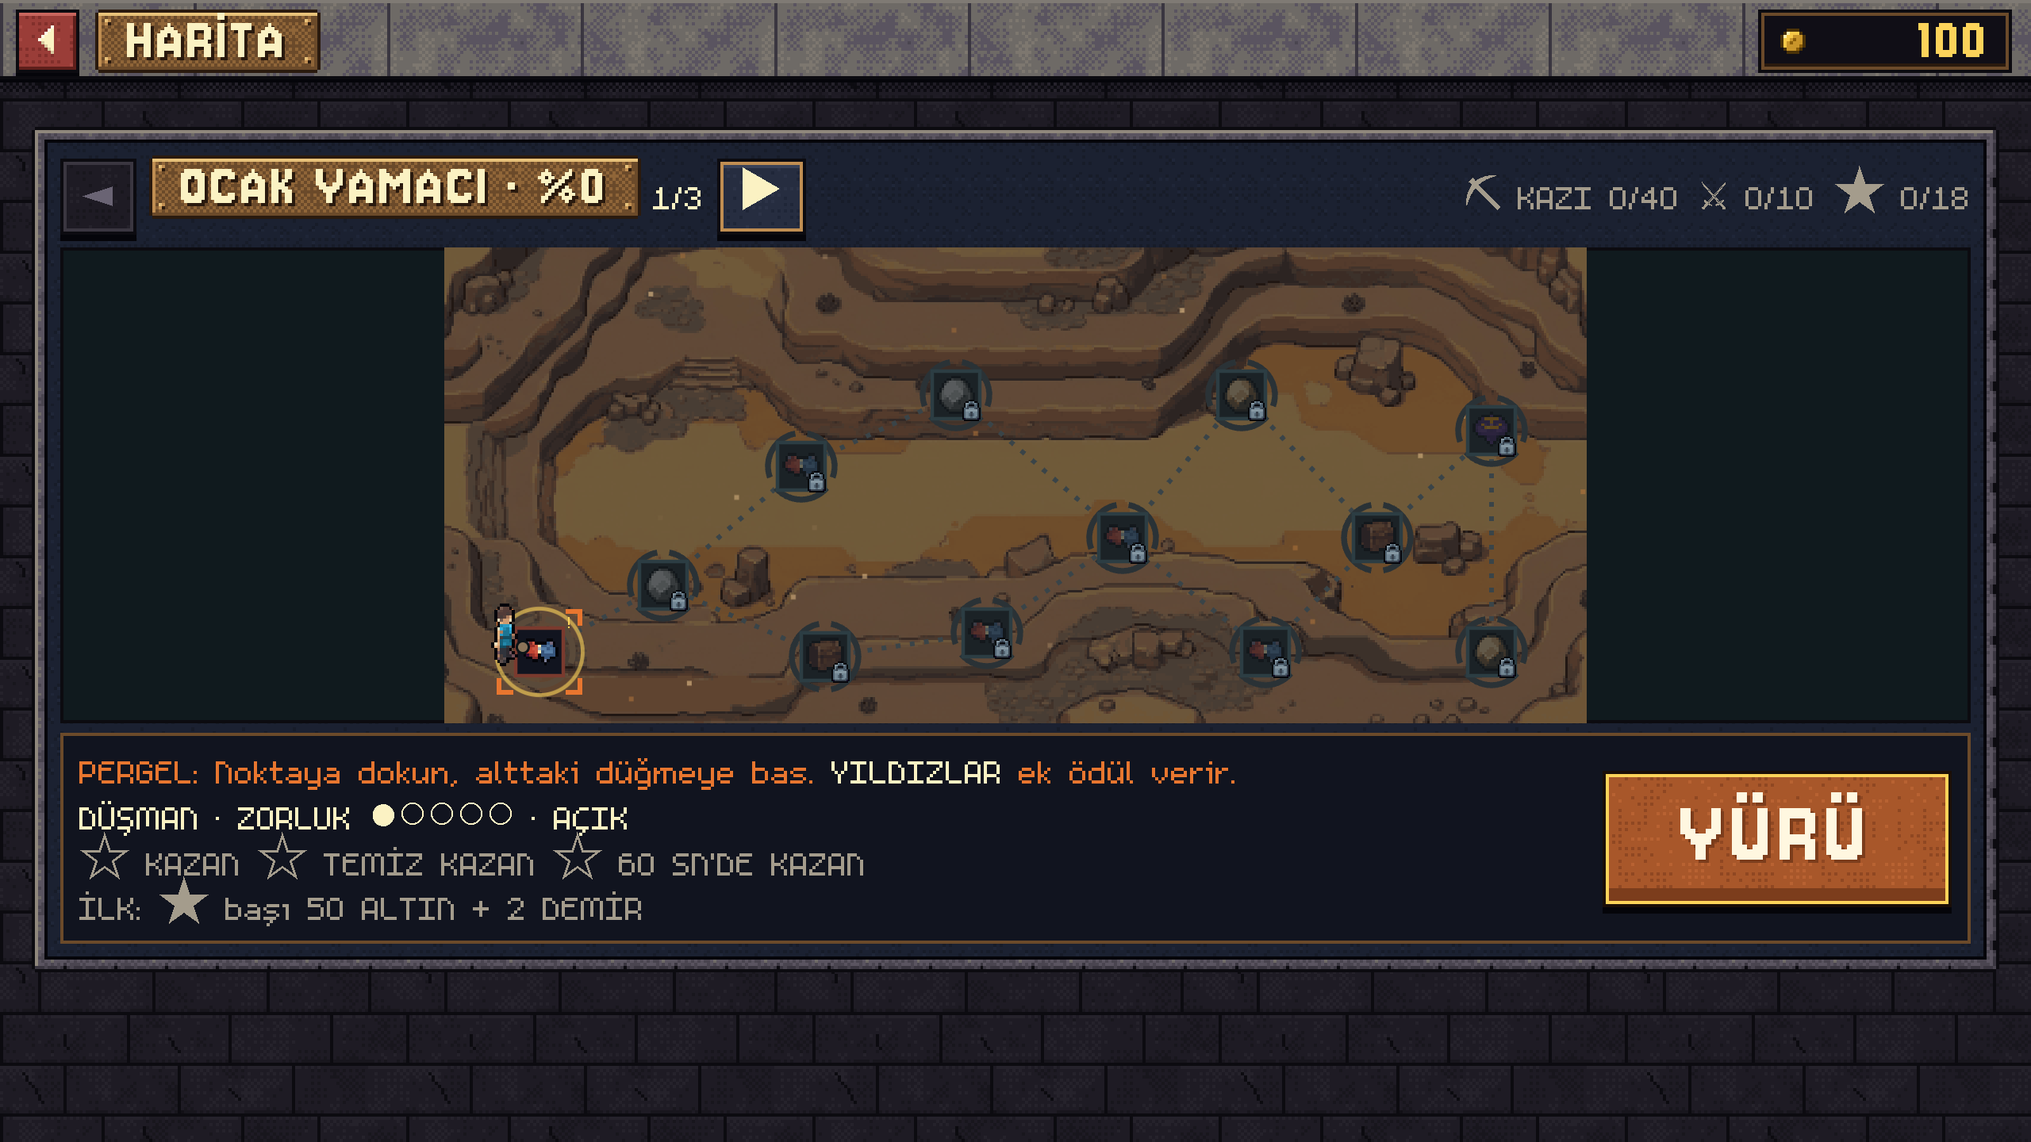
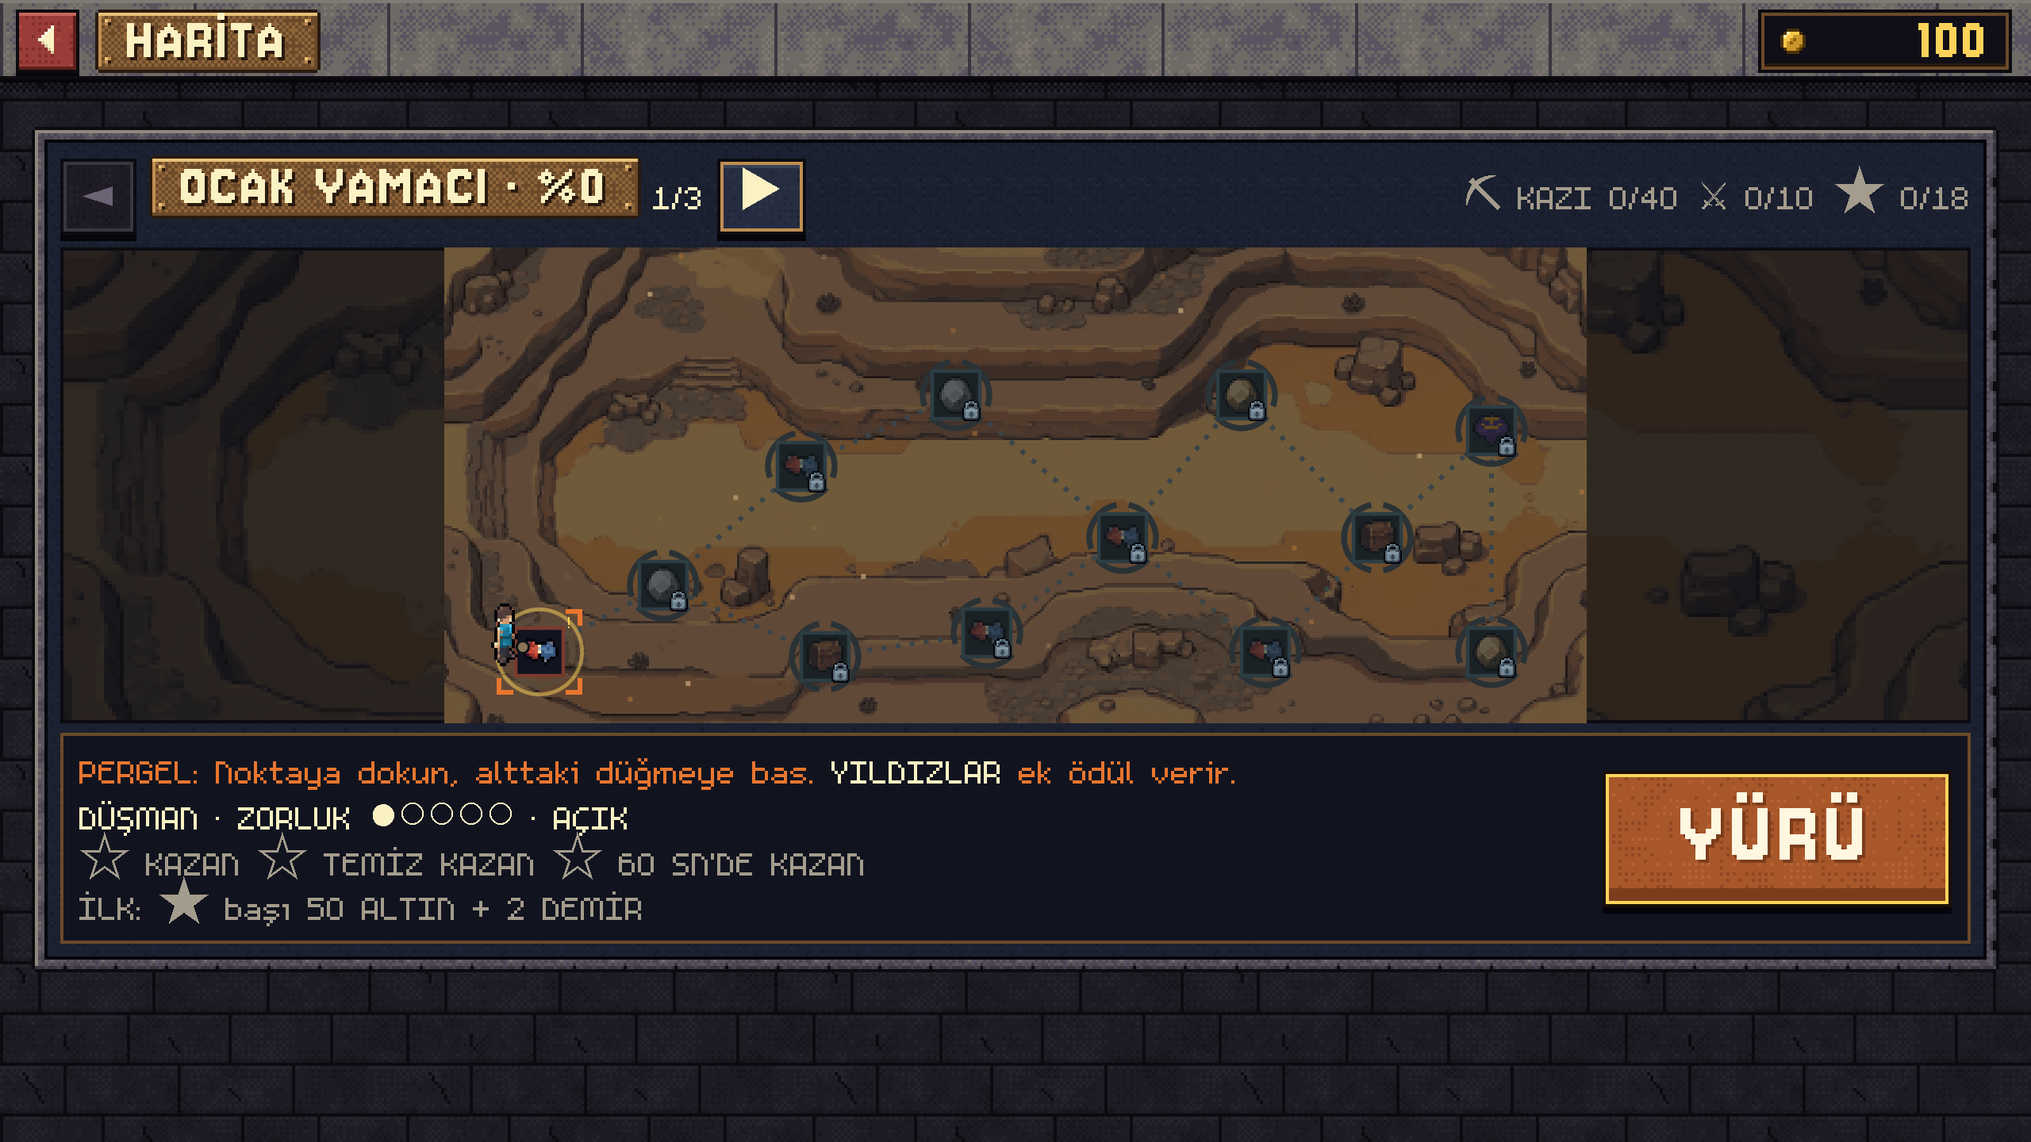
art(harita): M1 vein rock per ore tier, 3x mine character, crater frame ramp
- Gemini grey boulder with key-green veins; stone mapped to the mine-mouth
  blue-grey ramp, veins to each tier's ramp (iridescent for Devir). The mine
  screen shows it instead of the octagon placeholder and small ore icon.
- Mine mini character drawn at 3x.
- cerceve-krater gets a basalt + ember ramp so it differs from usta-ocakci.
- Effect frame captured mid-animation; screens and report refreshed.

Changed region(s): [[0.7812, 0.2188, 0.9688, 0.6562], [0.0312, 0.2188, 0.2188, 0.6562]]

diff --git a/src/istemci/ekranlar/Maden.ts b/src/istemci/ekranlar/Maden.ts
@@ -5,7 +5,7 @@ import { ipucuBas, ipucuSec } from "../bilgic/haritaIpucu.ts";
 import type { EkranBaglami } from "../main.ts";
 import { apiGet, apiPost, git, oku, sakla } from "../hesap.ts";
 import { ekranKok, el } from "./arayuz.ts";
-import { CEVHER_IKON, KARAKTER_KARE, OCAK_AGZI, karakterSayfasi, kareKonumu } from "./haritaVarlik.ts";
+import { DAMAR_KAYA, KARAKTER_KARE, OCAK_AGZI, karakterSayfasi, kareKonumu } from "./haritaVarlik.ts";
 import { efektStili, halkaDalga, kirintiPatlat, merkez, parilti, sarsinti } from "./haritaEfekt.ts";
 import { Ses } from "../ses/Ses.ts";
 
@@ -51,7 +51,7 @@ const STIL = `
 .mdn .md-satir.nadir { color:#fcd35a; }
 .mdn .md-seans span { display:block; }
 .mdn .md-mini { position:absolute; left:calc(4 * var(--p)); bottom:calc(4 * var(--p)); }
-.mdn .md-sprite { width:32px; height:48px; background-size:288px 144px; image-rendering:pixelated; }
+.mdn .md-sprite { width:48px; height:72px; background-size:432px 216px; image-rendering:pixelated; filter:drop-shadow(0 2px 0 rgba(0,0,0,.5)); }
 html[data-telefon] .mdn .md-govde { grid-template-columns:calc(118 * var(--p)) 1fr calc(100 * var(--p)); min-height:0; }
 html[data-telefon] .mdn .md-orta svg { width:calc(110 * var(--p)); height:calc(110 * var(--p)); }
 @media (prefers-reduced-motion: reduce) { .mdn .md-ucus { animation:none; opacity:1; } }
@@ -193,18 +193,16 @@ class MadenEkrani {
     };
     const tam = Math.PI * 2;
     // damar kayası (kademe renginde) + nadir çatlak
-    // damar ışıması (kademe rengi, nabız) + düzensiz kaya (sekizgen)
+    // damar ışıması (kademe rengi, nabız)
     const isik = document.createElementNS("http://www.w3.org/2000/svg", "circle");
     for (const [a, v] of Object.entries({ r: 30, fill: kademe(s.kademe).renk.ana, opacity: 0.35, class: "ef-isima" })) isik.setAttribute(a, String(v));
     svg.appendChild(isik);
-    const kaya = document.createElementNS("http://www.w3.org/2000/svg", "polygon");
-    for (const [a, v] of Object.entries({ points: "-14,-25 12,-24 25,-11 24,13 13,25 -12,24 -25,12 -24,-13", fill: kademe(s.kademe).renk.koyu, stroke: kademe(s.kademe).renk.ana, "stroke-width": 3, "stroke-linejoin": "bevel" })) kaya.setAttribute(a, String(v));
+    // damar kayası (Gemini kalıbı, damar kademe renginde; 10 § 3.3 M1), kademe numarası rozetle
+    const kaya = document.createElementNS("http://www.w3.org/2000/svg", "image");
+    for (const [a, v] of Object.entries({ href: DAMAR_KAYA(s.kademe), x: -34, y: -34, width: 68, height: 68, style: "image-rendering:pixelated" })) kaya.setAttribute(a, String(v));
+    kaya.dataset["damar"] = String(s.kademe);
     svg.appendChild(kaya);
     this.damarSvg = svg;
-    // damar: kodla çizilmiş cevher ikonu (A3), kademe numarası rozetle
-    const cv = document.createElementNS("http://www.w3.org/2000/svg", "image");
-    for (const [a, v] of Object.entries({ href: CEVHER_IKON(s.kademe), x: -16, y: -16, width: 32, height: 32, style: "image-rendering:pixelated" })) cv.setAttribute(a, String(v));
-    svg.appendChild(cv);
     const rz = document.createElementNS("http://www.w3.org/2000/svg", "text");
     rz.setAttribute("text-anchor", "middle"); rz.setAttribute("x", "16"); rz.setAttribute("y", "-12"); rz.setAttribute("font-size", "11"); rz.setAttribute("fill", "#fff");
     rz.textContent = String(s.kademe);
@@ -314,10 +312,10 @@ class MadenEkrani {
   }
 
   private spriteEl: HTMLElement | null = null;
-  /** Mini karakter karesi (sayfa 9×3, hücre 16×24; ×2 gösterim). */
+  /** Mini karakter karesi (sayfa 9×3, hücre 16×24; ×3 gösterim). */
   private spriteKare(k: number): void {
     const [x, y] = kareKonumu(k);
-    if (this.spriteEl) this.spriteEl.style.backgroundPosition = `${-x * 2}px ${-y * 2}px`;
+    if (this.spriteEl) this.spriteEl.style.backgroundPosition = `${-x * 3}px ${-y * 3}px`;
   }
   /** KAZ animasyonu (6 kare, ~0,5 sn), sonra BEKLE. */
   private kazAnim(): void {

diff --git a/src/istemci/ekranlar/haritaVarlik.ts b/src/istemci/ekranlar/haritaVarlik.ts
@@ -1,7 +1,7 @@
 import { MADENLER } from "../../paylasilan/veri/harita.ts";
 
-// Harita / Maden / Ocak 2B varlık yolları (public/harita/**, `npm run harita:asset`; veri/manifest-gorsel.json `harita`).
-// Kodla çizilmiş pixel art; sanat hattı (Mac) daha iyisini aynı yollara koyabilir. Görüntüler `image-rendering: pixelated`.
+// Harita / Maden / Ocak 2B varlık yolları (public/harita/**, araclar/sanat/harita_*.py; veri/manifest-gorsel.json `harita`).
+// Sanat hattı (Mac: Gemini + Tripo + Blender, docs/production/raporlar/HARITA-SANAT.md). Görüntüler `image-rendering: pixelated`.
 
 const taban = (): string => (import.meta.env?.BASE_URL ?? "/") + "harita/";
 export const DUGUM_IKON = (tur: string, bos = false): string => `${taban()}dugum/${tur === "sandik" && bos ? "sandik-bos" : tur}.png`;
@@ -9,6 +9,8 @@ export const KILIT_IKON = (): string => `${taban()}dugum/kilit.png`;
 const kid = (k: number) => MADENLER.find((x) => x.kademe === k)?.id ?? "demir";
 export const CEVHER_IKON = (k: number): string => `${taban()}maden/cevher-${kid(k)}.png`;
 export const KULCE_IKON = (k: number): string => `${taban()}maden/kulce-${kid(k)}.png`;
+/** Maden ekranının damar kayası (96×96, kademe renkli damar; 10 § 3.3 M1). */
+export const DAMAR_KAYA = (k: number): string => `${taban()}maden/damar-${kid(k)}.png`;
 export const USTALIK_IKON = (tur: "madencilik" | "isleme"): string => `${taban()}ustalik/${tur}.png`;
 export const GORUNUM_IKON = (id: string): string => `${taban()}${id.startsWith("cerceve-") ? "cerceve" : "arma"}/${id}.png`;
 export const USTA_PARILTI = (): string => `${taban()}efekt/usta-isi.png`;

diff --git a/araclar/sanat/harita_piksel.py b/araclar/sanat/harita_piksel.py
@@ -247,13 +247,49 @@ def kaliplar() -> None:
             f"Çerçeve: {kid} (perçinli, 9-dilim kenar 6)", kaynak)
     for b, e in BOLGE.items():
         yaz(takas(duz, rampa(*KADEME[e])), f"cerceve/cerceve-{b}", f"Çerçeve: {b} (GÜMÜŞ rozet, oluklu)", kaynak)
-    yaz(takas(krater, rampa(*KADEME["kor"])), "cerceve/cerceve-krater", "Çerçeve: krater", kaynak)
+    yaz(takas(krater, rampa("#1c1412", "#4a3a36", "#ff8a5c")), "cerceve/cerceve-krater", "Çerçeve: krater (bazalt + kor ışığı)", kaynak)
     yaz(kose_yildiz(takas(duz, rampa(*ALTIN)), "#FFFBE0"), "cerceve/cerceve-yildiz", "Çerçeve: yıldız (altın)", kaynak)
     yaz(takas(perci, rampa(*KOLEKSIYON), DEVIR_YANAR), "cerceve/cerceve-koleksiyon", "Çerçeve: koleksiyon", kaynak)
     yaz(kose_yildiz(takas(duz, rampa(*KADEME["demir"])), "#FCD35A"), "cerceve/cerceve-usta-madenci",
         "Çerçeve: usta madenci", kaynak)
     yaz(kose_yildiz(takas(krater, rampa(*KADEME["kor"])), "#FCD35A"), "cerceve/cerceve-usta-ocakci",
         "Çerçeve: usta ocakçı", kaynak)
+
+
+TAS = ["#1c2029", "#2a2f3a", "#3d4452", "#565e6e", "#737c8c", "#98a1b0"]  # ocak ağzıyla uyumlu mavi-gri taş
+
+
+def damarlar() -> None:
+    """M1 damar kayası 96×96: gri taş -> mavi-gri taş rampası, anahtar yeşili damar -> kademe rampası (10 § 3.3)."""
+    kaynak = "Gemini gri kaya + anahtar yeşili damar -> harita_piksel.py (taş ve damar ayrı rampa)"
+    k = ikon("kalip-damar", 96, renk=24, dolgu=0.96)
+    rgb = k[..., :3].astype(np.float32)
+    mx, mn = rgb.max(-1), rgb.min(-1)
+    yesil = (k[..., 3] > 0) & (rgb[..., 1] > rgb[..., 0] + 40) & (rgb[..., 1] > rgb[..., 2] + 40)
+    kontur = np.all(k[..., :3] == KONTUR, axis=-1)
+    tas = (k[..., 3] > 0) & ~yesil & ~kontur & (mx - mn < 30)
+    lum = rgb.mean(-1)
+
+    def esle(maske: np.ndarray, rampa: list[np.ndarray], out: np.ndarray, yanar: list[str] | None = None) -> None:
+        if not maske.any():
+            return
+        lo, hi = np.percentile(lum[maske], 3), np.percentile(lum[maske], 97)
+        t = np.clip((lum - lo) / max(hi - lo, 1), 0, 0.999)
+        d = (t * len(rampa)).astype(int)
+        for i, c in enumerate(rampa):
+            out[maske & (d == i), :3] = c.astype(np.uint8)
+        if yanar:
+            ys, xs = np.nonzero(maske & (d == len(rampa) - 1))
+            for y, x in zip(ys, xs):
+                out[y, x, :3] = hx(yanar[(x + y) % len(yanar)]).astype(np.uint8)
+
+    taban = k.copy()
+    esle(tas, [hx(c) for c in TAS], taban)
+    for i, (kid, r) in enumerate(KADEME.items(), 1):
+        out = taban.copy()
+        ko, an, vu = (hx(c) for c in r)
+        esle(yesil, [an, (an + vu) / 2, vu, vu + (255 - vu) * 0.6], out, DEVIR_YANAR if kid == "devir" else None)
+        yaz(out, f"maden/damar-{kid}", f"Damar kayası K{i} {kid} (96×96; taş + kademe renkli damar)", kaynak)
 
 
 def zeminler() -> None:
@@ -285,6 +321,8 @@ if __name__ == "__main__":
         ikonlar()
     if s & {"kalip", "hepsi"}:
         kaliplar()
+    if s & {"damar", "hepsi"}:
+        damarlar()
     if s & {"zemin", "hepsi"}:
         zeminler()
     os.makedirs(os.path.join(DEPO, "art-source", "harita"), exist_ok=True)

diff --git a/araclar/sanat/harita_gemini.py b/araclar/sanat/harita_gemini.py
@@ -142,7 +142,15 @@ HP_B = {
                         "light grey face." + GRI,
 }
 
-GRUPLAR = {"hp1": HP1, "hp2": HP2, "hpk": HPK, "hp3": HP3, "hpb": HP_B}
+# M1 damar kayası (10 § 3.3): gri kaya + anahtar yeşili damar → damar pikselleri kademe rampasına (harita_piksel.py damar)
+DAMAR = (IKON.replace("16 by 16 pixel grid", "48 by 48 pixel grid").replace("still reads at 16 pixels", "reads at 96 pixels")
+         + "a single big rough rock boulder seen from the front, chunky faceted stone, a few cracks, with three or four thick "
+         "ore veins running diagonally across its face. The stone is ONLY neutral grey (light grey top-left, dark grey "
+         "lower-right). The veins are flat pure bright green (#00FF00) with a few lighter green highlight pixels, clearly "
+         "separated from the grey stone.")
+HP_M = {"kalip-damar": DAMAR}
+
+GRUPLAR = {"hp1": HP1, "hp2": HP2, "hpk": HPK, "hp3": HP3, "hpb": HP_B, "hpm": HP_M}
 ORAN = {"zemin": "21:9", "ocak-agzi": "16:9"}
 
 

diff --git a/docs/production/raporlar/HARITA-SANAT.md b/docs/production/raporlar/HARITA-SANAT.md
@@ -11,9 +11,10 @@ Sözleşme korundu: bütün yollar, adlar ve boyutlar aynı (`haritaVarlik.ts` d
 | HP-1 | `dugum/{dusman,patron,maden,sandik,sandik-bos,kilit}.png` 13×13, `ustalik/{madencilik,isleme}.png` 13×13, `efekt/usta-isi.png` 128×16 | 9 | Gemini ham ikon → `anahtarla.py` → `harita_piksel.py` (ham görselin kendi paletinden medyan kesim, BOX küçültme, 1 bit alfa, dış kontur). Usta işi: tek Gemini parıltısından 8 ölçek karesi |
 | HP-2 | `maden/cevher-*`, `maden/kulce-*` 16×16 (8+8), `arma/*` 24×24 (16), `cerceve/*` 24×24 (19) | 51 | 13 gri kalıp (cevher, külçe, 2 arma, 6 bölge arması, 3 çerçeve) → parlaklığa göre 6 düzey → kademe/bölge rampası (10 § 2). Devir Taşı: en parlak düzey 6 element vurgusuyla yanardöner. Çerçeveler 9-dilim sözleşmesine zorlanır (kenar 6, iç 12×12 boş, dış ve iç kenar kontur) |
 | HP-K | `karakter/govde-<0..3>-renk-<0..5>.png` 144×72 | 24 | 4 Gemini gövde konsepti (A-duruşu, parlak yeşil giysi) → Tripo `image-to-model` v3.1 → Blender 5.2 `blender/karakter_render.py` (konuma göre iskelet, 27 poz) → `harita_karakter.py` (16×24 hücre, ortak palet, yeşil giysi → 6 profil rengi) |
+| M1 | `maden/damar-<kademe>.png` 96×96 (8) | 8 | Gemini gri kaya + anahtar yeşili damar → taş ocak ağzıyla uyumlu mavi-gri rampaya, damar kademe rampasına (Devir yanardöner). Maden ekranında sekizgen yer tutucu kaya ve küçük cevher ikonunun yerini aldı |
 | HP-3 | `zemin/<bolge>.png` 480×200 (6 bölge), `zemin/ocak-agzi.png` 480×270 | 7 | Gemini manzara → kenar kırpma, en-boy kırpma, BOX küçültme, ≤ 48 renk |
 
-Toplam 91 dosya, 375 KB (ikonlar 32 KB, karakter 52 KB, zeminler 309 KB). Önce/sonra: [HARITA-SANAT-once-sonra.png](ekran/HARITA-SANAT-once-sonra.png).
+Toplam 99 dosya, ≈ 400 KB (ikonlar 32 KB, karakter 52 KB, zeminler 309 KB). Önce/sonra: [HARITA-SANAT-once-sonra.png](ekran/HARITA-SANAT-once-sonra.png).
 
 ### Karakter iskeleti (Tripo rig kredisi harcamadan)
 Tripo modelleri iskeletsiz gelir; Tripo'nun rig + retarget adımı model başına ≈ 65 kredi daha tutardı. Bunun yerine Blender'da ücretsiz bir iskelet kuruldu: model ölçülür (A-duruşunda en dıştaki köşeler = el ucu, göğüs genişliği, omuz yüksekliği), kollar omuz→el kapsülüyle, bacaklar kalça altıyla, baş boyun üstüyle ayrılır, eklemde ağırlık yumuşatılır. Pozlar elle yazılmış açılarla kare kare verilir: BEKLE 4 (nefes), YÜRÜ 6 (bacak/kol salınımı), KAZ 6 (kaldır, tepe, vur, saplan; sağ ele ilkel geometriden kazma), DÖVÜŞE GİR 5 (geri çek, fırlat), KUTLA 6 (zıpla, kollar havada). Kamera ortografik, 3/4 önden, 28° üstten, karakter ekranda sağa bakar (sola yürüme kodda ayna, 13 § 2.2).
@@ -25,7 +26,7 @@ Yeni modül [`haritaEfekt.ts`](../../../src/istemci/ekranlar/haritaEfekt.ts): pi
 | Ekran | Eklenen |
 |---|---|
 | Harita | Bölge zemini (SVG `<image>`, y 18'den 480×200) + %42 koyu örtü (kilitli bölgede %70), SVG'nin yan boşluklarını aynı zeminin koyu kopyası doldurur; bölgeye göre ortam: Ayaz kar, Kor kıvılcım, Yel rüzgâr çizgisi, Çakım uzak şimşek parlaması + kıvılcım, Dip kabarcık, Ocak Yamacı toz; keşfedilmemiş açık düğümde altın nabız halkası; maden düğümünde kademe renginde ışıma; yürürken ayak tozu; aşama yükselince (KUTLA) altın kırıntı + usta işi parıltısı |
-| Maden | Ocak ağzı kaya çerçevesi gövdenin zemini; damar sekizgen kaya + kademe renginde nabız ışıması; KAZ'da kaya sarsılır, kademe renginde kırıntı, İSABET'te bronz halka dalgası, NADİR'de iki parıltı, ISKA'da gri toz |
+| Maden | Ocak ağzı kaya çerçevesi gövdenin zemini; damar kayası (M1) + kademe renginde nabız ışıması; sol alttaki karakter ×3 (48×72 CSS px); KAZ'da kaya sarsılır, kademe renginde kırıntı, İSABET'te bronz halka dalgası, NADİR'de iki parıltı, ISKA'da gri toz |
 | Ocak | Cevher listesinde külçe ikonu (`KULCE_IKON` artık kullanılıyor); ERİT sonucunda külçe ikonu + kor kıvılcımı; DÖV/ÜRET'te çekiç kıvılcımı; usta işinde halka + iki parıltı; `usta-isi.png` yolu `USTA_PARILTI()` üzerinden (önceden sabit yol) |
 | Profil | KARAKTER seçicisi kodla çizilmiş dikdörtgenler yerine gerçek sayfanın BEKLE karesini gösterir |
 
@@ -33,7 +34,7 @@ Yeni modül [`haritaEfekt.ts`](../../../src/istemci/ekranlar/haritaEfekt.ts): pi
 
 | Kalem | Adet | Maliyet |
 |---|---|---|
-| Gemini `gemini-3.1-flash-image` | 41 çağrı (33 ilk tur + 8 yeniden üretim: 3 zemin perspektif/çerçeve, 1 DÜŞMAN denemesi kullanılmadı, İşleme, 3 bölge arması) | ≈ **$1,85** (tahmin $0,045/görsel; bütçe ≈ $2) |
+| Gemini `gemini-3.1-flash-image` | 43 çağrı (33 ilk tur + 8 yeniden üretim: 3 zemin perspektif/çerçeve, 1 DÜŞMAN denemesi kullanılmadı, İşleme, 3 bölge arması; + 2 damar kayası varyantı) | ≈ **$1,94** (tahmin $0,045/görsel; bütçe ≈ $2) |
 | Tripo `image-to-model` v3.1 | 4 model | 160 kredi |
 | Tripo `texture_model` | 1 (karakter-0'ın dokusu gri geldi; yalnız yeniden doku) | 10 kredi |
 | Toplam Tripo | | **170 kredi** (bütçe ≈ 160; bakiye 2225 → 2055) |
@@ -64,11 +65,11 @@ Kayıtlar depo dışında: `art-source/harita/manifest.jsonl` (Gemini), `tripo-k
 
 `KIMLIK_MODU=sifre` geliştirme sunucusu (port 5391) açıkken `H_DILIM=SANAT npm run h:akis` (Playwright, masaüstü 1280×720 DPR 2 + telefon 844×390). Otomatik oynanış, insan play pass değil.
 
-- **Konsol hatası: 0.** Bu çalıştırmada bot ilk düşman maçını (b1-01) **kazandı** (1 yıldız); Maden (b1-02) ve Ocak adımları açıldı. Kazı: 6 vuruş (3 ıska, 1 başarılı, 1 İSABET, 1 ıska), Ocak: ERİT + ilk parça (DEMİR DÜZ UÇ, NO. 0001).
-- Kontakt: [HARITA-SANAT-kontakt.jpg](ekran/HARITA-SANAT-kontakt.jpg) (Harita ilk, Harita dönüş KUTLA, Maden ilk/vuruş/bitti, Ocak ERİT, Profil KARAKTER, telefon Harita/Maden). Tek tek: `ekran/HARITA-SANAT-*.png`, akış kaydı [HARITA-SANAT-akis.json](HARITA-SANAT-akis.json).
+- **Konsol hatası: 0** (iki çalıştırma; ikincisi damar kayası ve ×3 karakterden sonra). İlk çalıştırmada bot ilk düşman maçını (b1-01) **kazandı** (1 yıldız); Maden (b1-02) ve Ocak adımları açıldı. Kazı: 6 vuruş (3 ıska, 1 başarılı, 1 İSABET, 1 ıska), Ocak: ERİT + ilk parça (DEMİR DÜZ UÇ, NO. 0001).
+- Kontakt: [HARITA-SANAT-kontakt.jpg](ekran/HARITA-SANAT-kontakt.jpg) (Harita ilk, Harita dönüş KUTLA, Maden ilk/vuruş, efekt anı, Ocak ERİT, Profil KARAKTER, telefon Harita/Ocak). Tek tek: `ekran/HARITA-SANAT-*.png`, akış kaydı [HARITA-SANAT-akis.json](HARITA-SANAT-akis.json).
 - Gözle doğrulanan: bölge zemini + koyu örtü, maden düğümünde nabız halkası ve ışıma, dönüşte KUTLA parıltısı (harita-donus), ocak ağzı zemini ve sekizgen damar (maden-*), Profil'de 4 karakter karesi, Ocak listesinde külçe ikonu.
 - İlk harita görüntüsü yan şerit dolgusundan önce alındı (koyu şerit görünür); dönüş görüntüsünde dolgu var.
-- Kırıntı/halka efektleri 0,6 sn sürdüğü için ekran görüntülerinin çoğunda yakalanmadı; KUTLA parıltısı yakalandı.
+- Kırıntı/halka efektleri 0,6 sn sürdüğü için akış görüntülerinin çoğunda yakalanmadı; KUTLA parıltısı yakalandı. Ayrıca efekt modülü dev sunucusundan yüklenip patlama anında (170 ms) çekildi: [HARITA-SANAT-efekt.png](ekran/HARITA-SANAT-efekt.png) (Kor zemini + kor ortam parçacıkları, Kor damar kayası üstünde kırıntı + halka, sağda parıltı + altın kırıntı; sayfa hatası 0).
 
 Ortam notu: bu Mac'te Playwright kurulu değildi. Depoya dokunmadan scratchpad'e `playwright@1.56` kuruldu (`NODE_PATH`), headless kabuk indirmesi yarıda kaldığı için sistemdeki Google Chrome küçük bir sarmalayıcıyla (`--headless=new`) kullanıldı. Bu kurulum `~/Library/Caches/ms-playwright/` altındaki sahipsiz eski `chromium-1194` ve `ffmpeg-1011` klasörlerini sildi; gerekirse `npx playwright install chromium` ile geri gelir.
 
@@ -76,5 +77,5 @@ Ortam notu: bu Mac'te Playwright kurulu değildi. Depoya dokunmadan scratchpad'e
 
 - 16×24'te karakterin yüzü 2-3 pikseldir; okunurluk siluet ve giysi rengiyle. KAZ'da kazma 2-3 piksel görünür.
 - Profil renginin palet takası yalnız giysiyi değiştirir; tek renk sayfası 6 kez tekrarlanır (sayfa başına ≈ 2-3 KB).
-- `cerceve-krater` ile `cerceve-usta-ocakci` aynı Kor rampasında; usta-ocakçıyı köşe yıldızları ayırır.
+- `cerceve-krater` ikinci turda bazalt + kor ışığı rampasına alındı; `cerceve-usta-ocakci` Kor rampasında ve köşe yıldızlı.
 - Kor bölgesinin ortam efekti ve maden ışıması `prefers-reduced-motion`'da kapanır; gözle insan denetimi yapılmadı.
